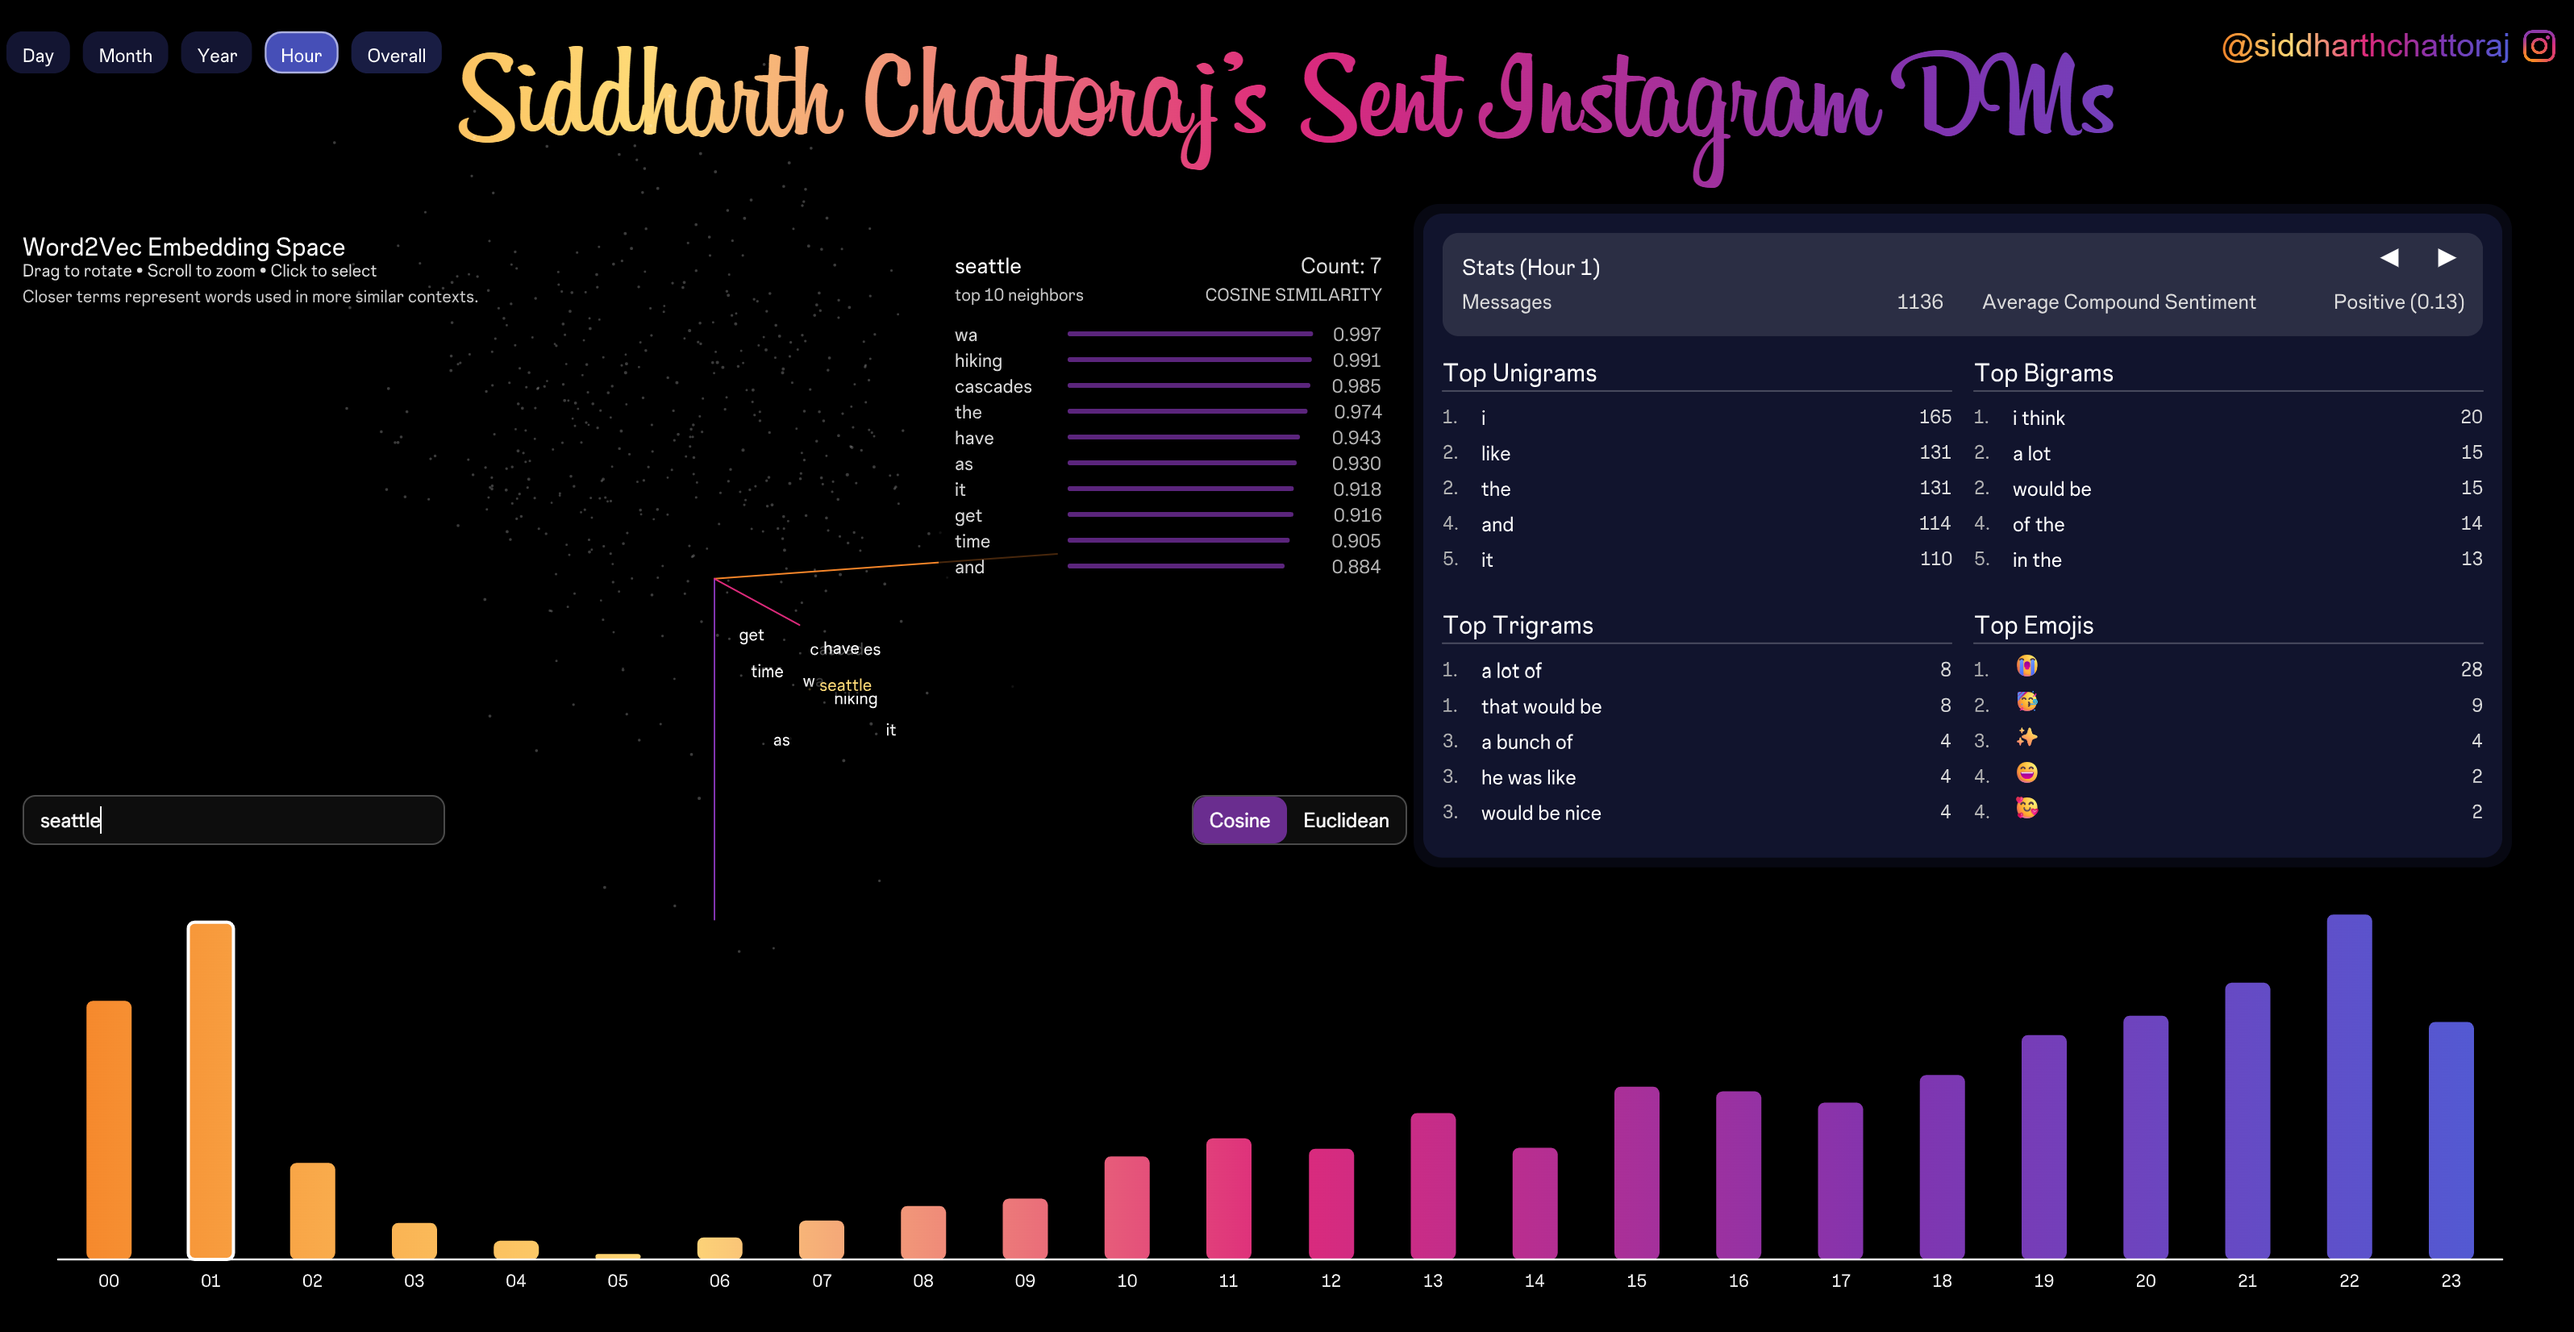
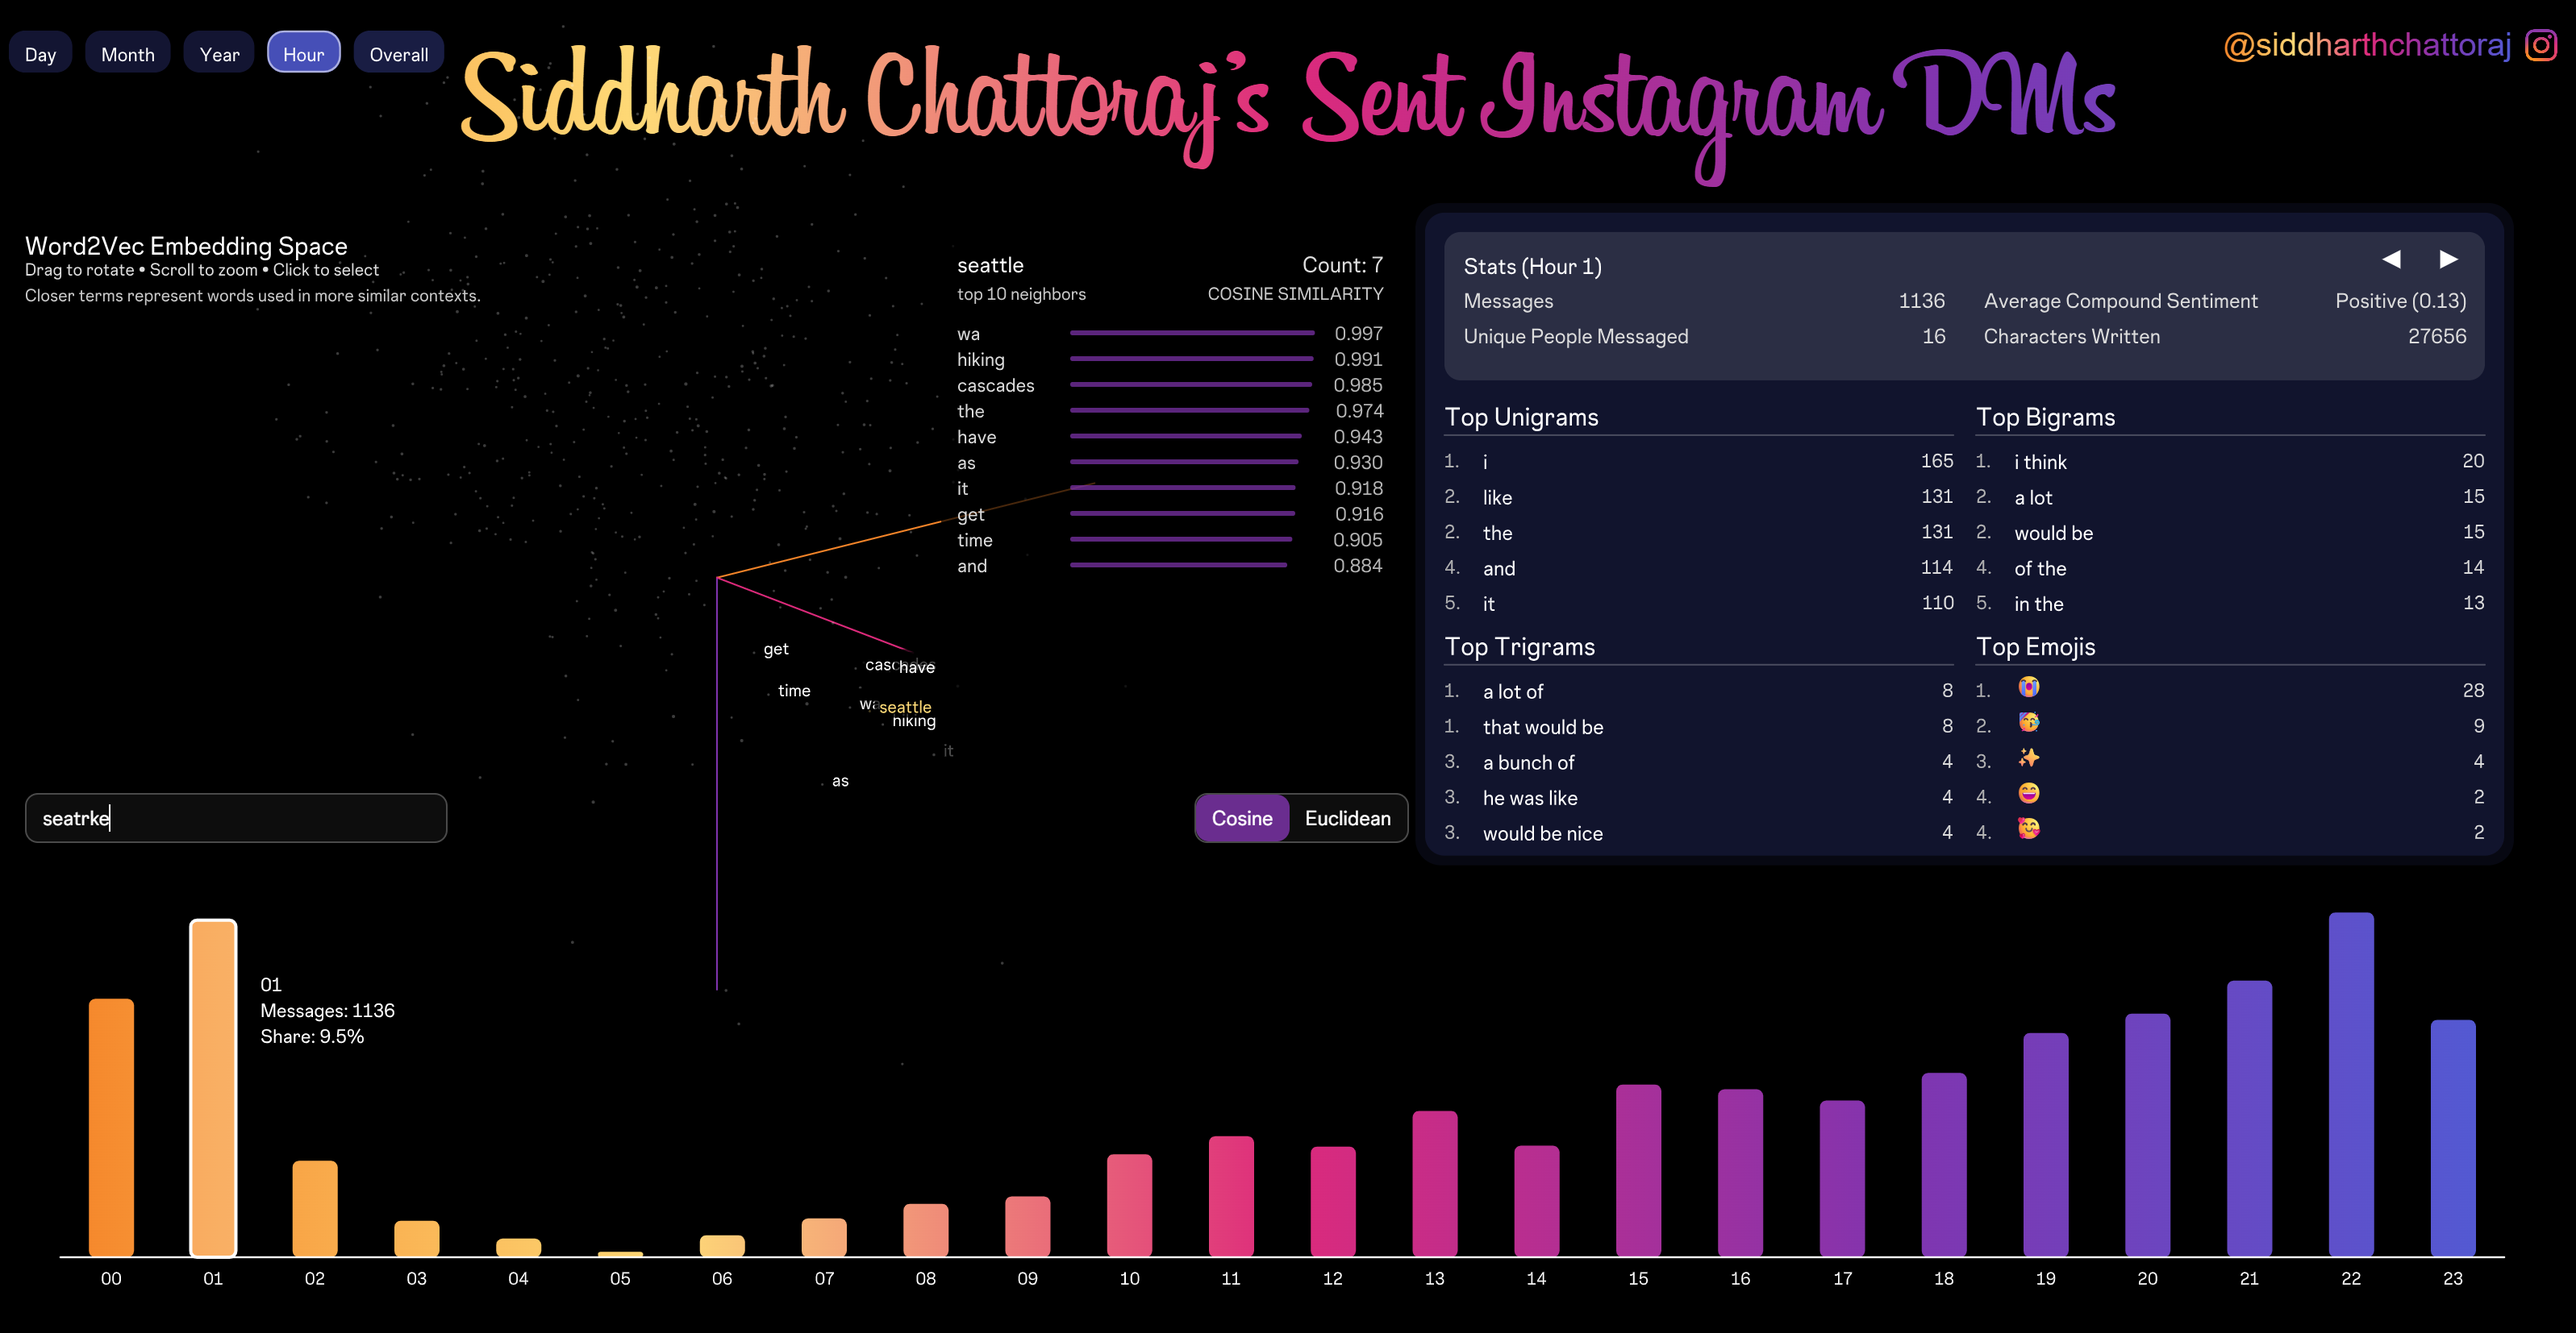
Finalized Project 2 Code

diff --git a/project-2/dashboard.js b/project-2/dashboard.js
@@ -49,11 +49,13 @@ function drawDashboard() {
   const topTriples = getTopFromTable(tables.threeWord, ["trigram","token","term","gram"], dateKeyFilter, maxItems, minimumCount, hourFilter);
   const topEmoji   = getTopFromTable(tables.emoji, ["emoji","emojis","token","char"], dateKeyFilter, maxItems, 1, hourFilter);
 
-  drawStatsCard(innerX, innerY, innerW, 64, summaryStats);
-  drawDashboardArrows(innerX, innerY - 20, innerW, 64);
+  // increased card height to accommodate an extra metric row
+  const cardH = 92;
+  drawStatsCard(innerX, innerY, innerW, cardH, summaryStats);
+  drawDashboardArrows(innerX, innerY - 20, innerW, cardH);
 
-  const bodyY = innerY + 64 + 12;
-  const bodyH = innerH - 64 - 12;
+  const bodyY = innerY + cardH + 12;
+  const bodyH = innerH - cardH - 12;
   const rowH = (bodyH - columnGap) / 2;
 
   // helper to draw each n-gram list
@@ -127,6 +129,8 @@ function computeStats(dateKeyOrNull, hourOrNull) {
   let messageCount = 0;
   let sentimentSum = 0;
   let sentimentN = 0;
+  const recipientSet = new Set();
+  let charSum = 0;
 
   for (let r = 0; r < msgTable.getRowCount(); r++) {
     const dtRaw = msgTable.getString(r, "datetime");
@@ -155,6 +159,20 @@ function computeStats(dateKeyOrNull, hourOrNull) {
     if (!include) continue;
     messageCount += 1;
 
+    // Track unique recipients in scope
+    const recipRaw = msgTable.getString(r, "recipient_name");
+    if (recipRaw != null) {
+      const recip = String(recipRaw).trim();
+      if (recip.length > 0) recipientSet.add(recip);
+    }
+
+    // Sum character counts (precomputed in CSV as character_count)
+    const ccStr = msgTable.getString(r, "character_count");
+    if (ccStr != null && ccStr !== "") {
+      const cc = parseInt(ccStr);
+      if (!isNaN(cc)) charSum += cc;
+    }
+
     const sStr = msgTable.getString(r, "compound_sentiment");
     if (sStr) {
       const v = parseFloat(sStr);
@@ -173,7 +191,7 @@ function computeStats(dateKeyOrNull, hourOrNull) {
     else label = "Neutral";
   }
 
-  return { msgCount: messageCount, avgSentimentBucket: label, avgSentiment: average };
+  return { msgCount: messageCount, avgSentimentBucket: label, avgSentiment: average, uniqueRecipientsCount: recipientSet.size, charCount: charSum };
 }
 
 // Draws the small summary card at the top of the dashboard
@@ -213,6 +231,20 @@ function drawStatsCard(x, y, w, h, stats) {
   const avgSuffix = stats.avgSentiment != null ? ` (${nf(stats.avgSentiment, 1, 2)})` : "";
   text(stats.avgSentimentBucket + avgSuffix, x + w - pad, lineY);
   textAlign(LEFT, TOP);
+
+  // Second row: unique recipients on the left
+  const lineY2 = lineY + 22;
+  fill(220);
+  text("Unique People Messaged", x + pad, lineY2);
+  textAlign(RIGHT, TOP);
+  text(nf(stats.uniqueRecipientsCount || 0, 1, 0), midX - 12, lineY2);
+  textAlign(LEFT, TOP);
+
+  // Second row (right): characters written
+  text("Characters Written", midX + 12, lineY2);
+  textAlign(RIGHT, TOP);
+  text(nf(stats.charCount || 0, 1, 0), x + w - pad, lineY2);
+  textAlign(LEFT, TOP);
 }
 
 // Draws navigation arrows on the dashboard card
@@ -220,7 +252,8 @@ function drawDashboardArrows(cardX, cardY, cardW, cardH) {
   const buttonSize = 28;
   const pad = 8;
   const gap = 8;
-  const y = cardY + (cardH - buttonSize) / 2;
+  // move arrows up slightly
+  const y = cardY + (cardH - buttonSize) / 2 - 12.5;
 
   const rightX = cardX + cardW - pad - buttonSize;
   const leftX = rightX - gap - buttonSize;
